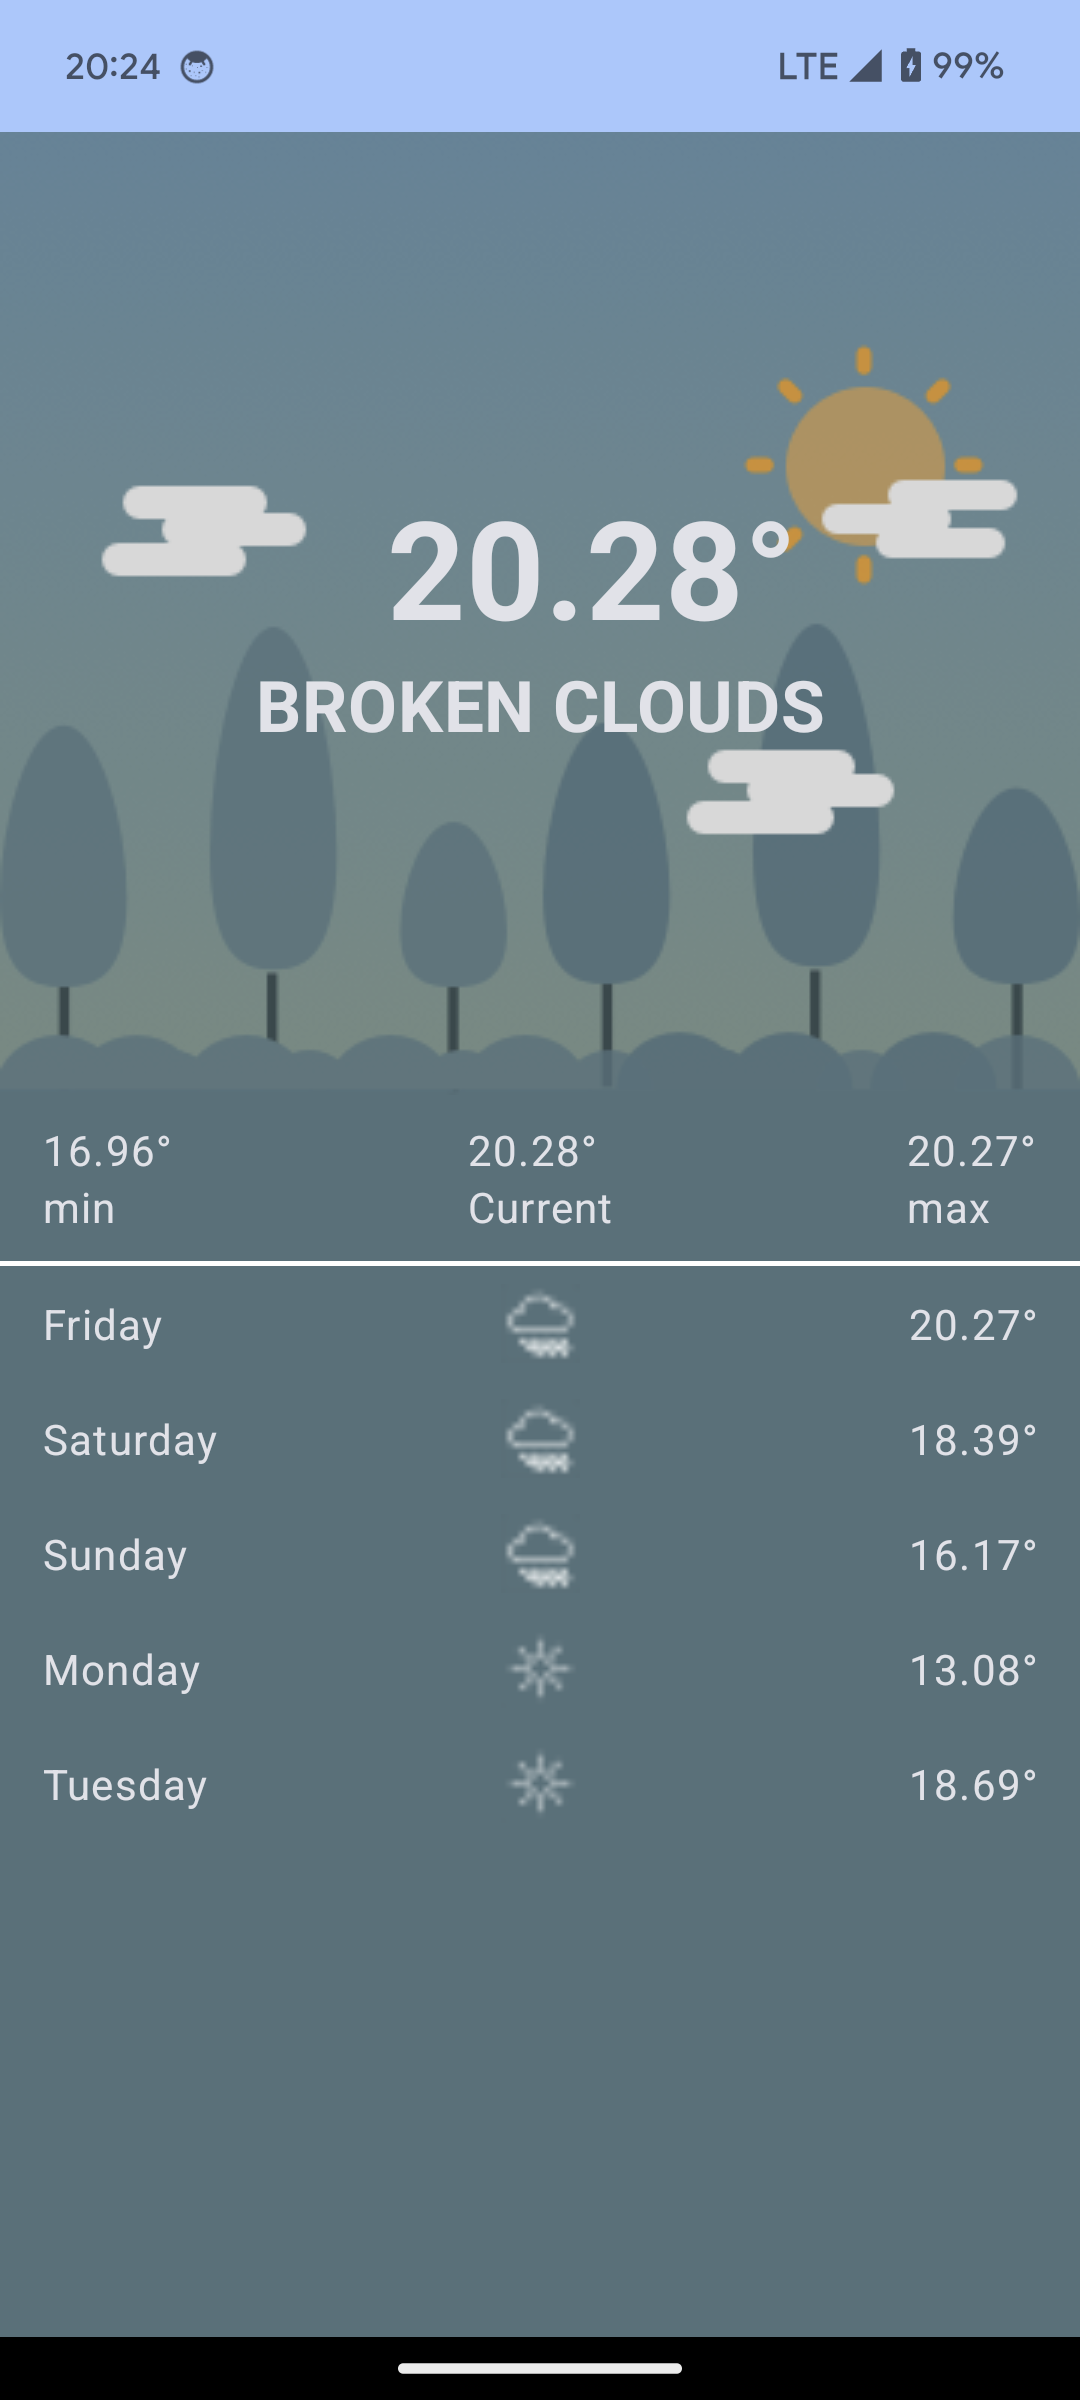
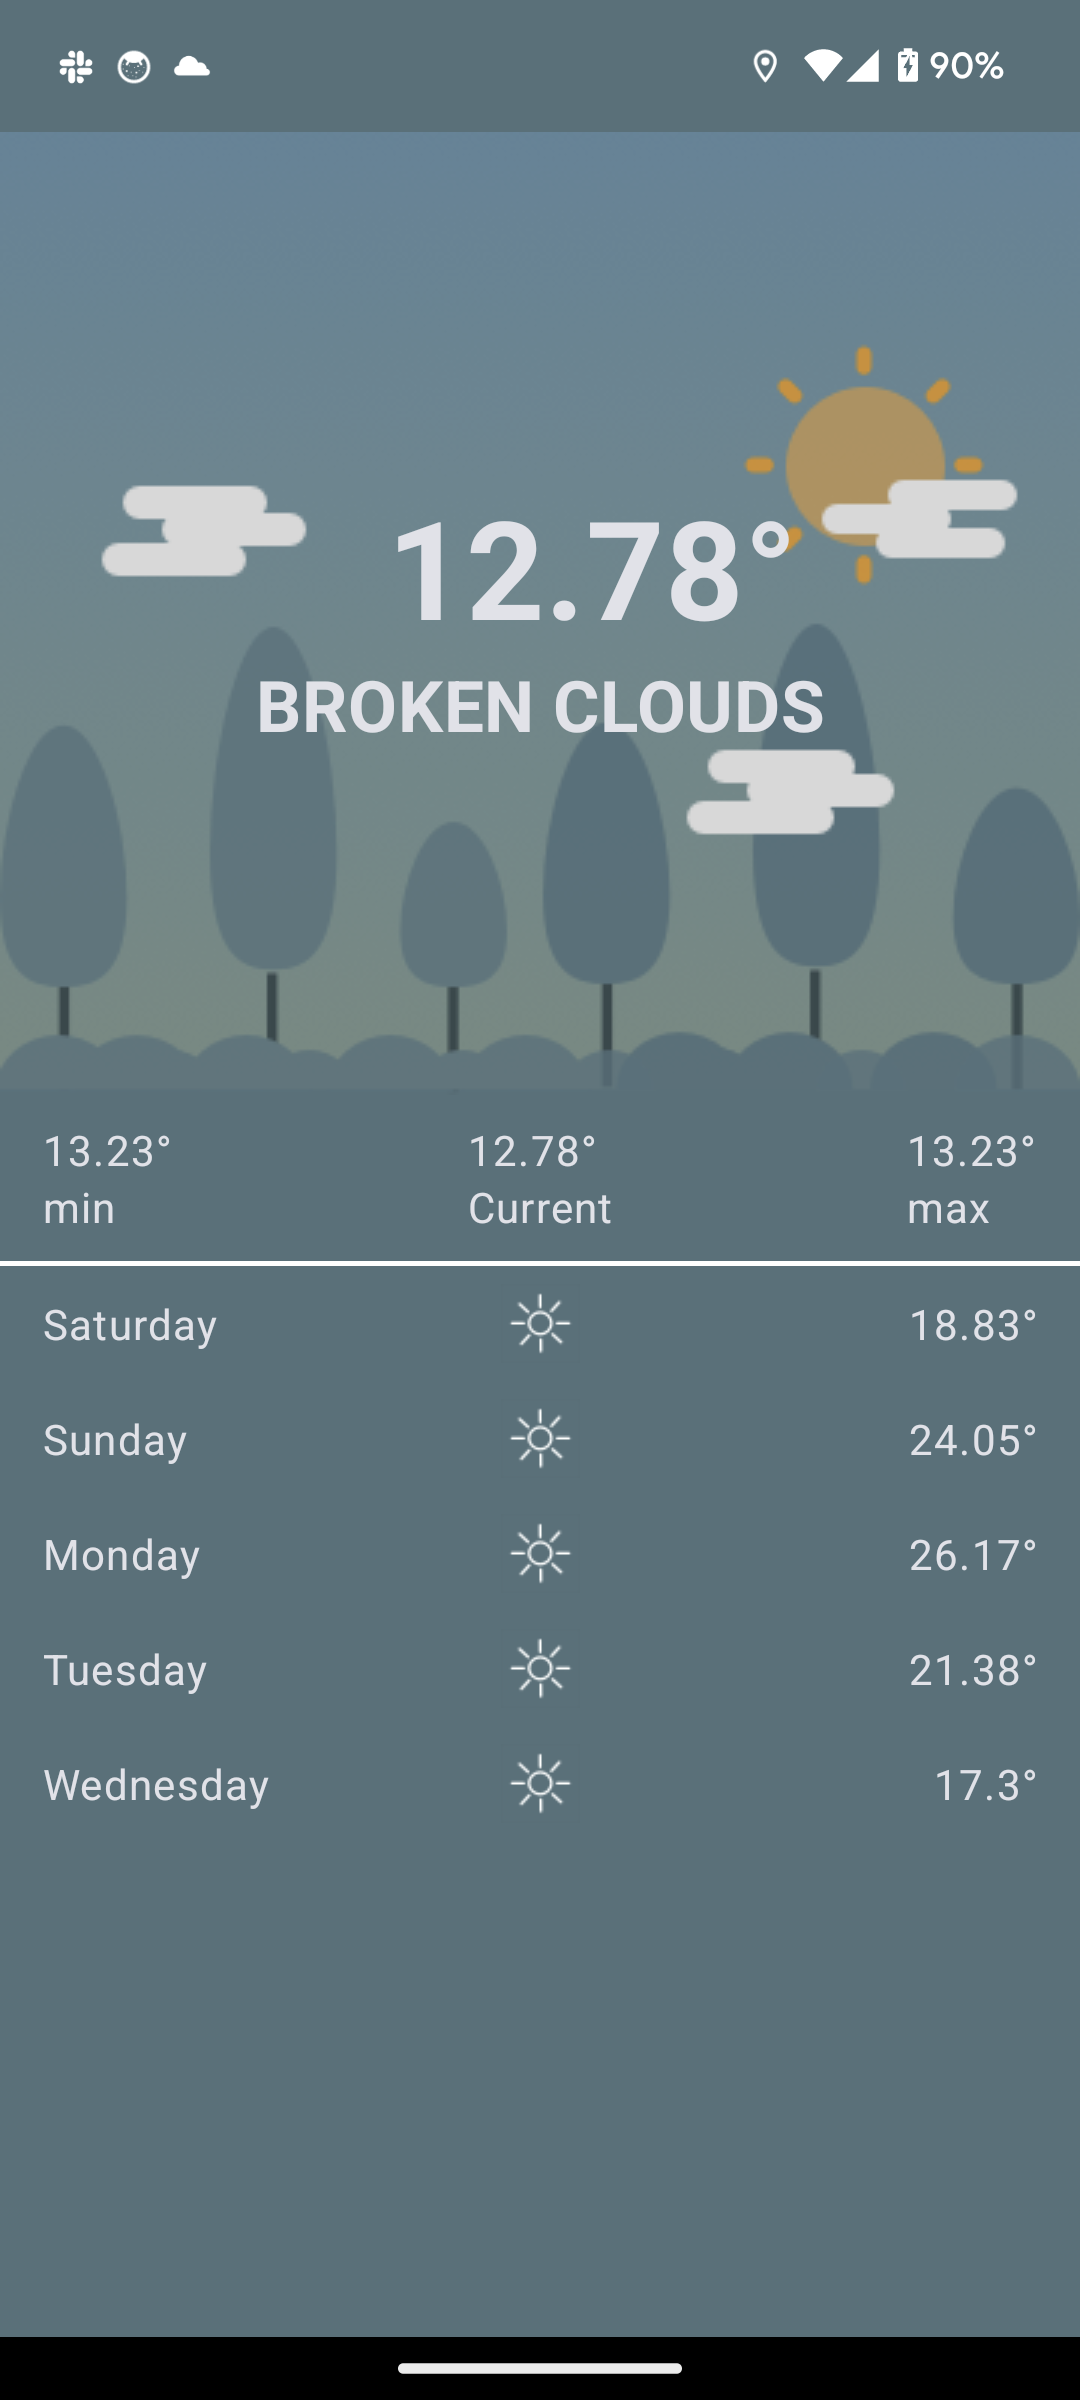
forecast: - Check if permissions are granted - Launch app setting to turn on location if permission not granted - Add lottie animation

diff --git a/forecast/src/main/java/com/edwardmuturi/forecast/presentation/ForecastScreen.kt b/forecast/src/main/java/com/edwardmuturi/forecast/presentation/ForecastScreen.kt
@@ -22,7 +22,11 @@
  */
 package com.edwardmuturi.forecast.presentation
 
+import android.Manifest
 import android.app.Activity
+import android.content.Intent
+import android.net.Uri
+import android.provider.Settings
 import androidx.compose.foundation.ExperimentalFoundationApi
 import androidx.compose.foundation.Image
 import androidx.compose.foundation.background
@@ -42,13 +46,18 @@ import androidx.compose.material.ExperimentalMaterialApi
 import androidx.compose.material.pullrefresh.PullRefreshIndicator
 import androidx.compose.material.pullrefresh.pullRefresh
 import androidx.compose.material.pullrefresh.rememberPullRefreshState
+import androidx.compose.material3.AlertDialog
 import androidx.compose.material3.Scaffold
 import androidx.compose.material3.Text
+import androidx.compose.material3.TextButton
 import androidx.compose.runtime.Composable
 import androidx.compose.runtime.LaunchedEffect
 import androidx.compose.runtime.SideEffect
 import androidx.compose.runtime.collectAsState
 import androidx.compose.runtime.getValue
+import androidx.compose.runtime.mutableStateOf
+import androidx.compose.runtime.remember
+import androidx.compose.runtime.setValue
 import androidx.compose.ui.Alignment
 import androidx.compose.ui.Modifier
 import androidx.compose.ui.graphics.Color
@@ -59,16 +68,27 @@ import androidx.compose.ui.platform.LocalView
 import androidx.compose.ui.platform.testTag
 import androidx.compose.ui.res.painterResource
 import androidx.compose.ui.res.stringResource
+import androidx.compose.ui.text.TextStyle
 import androidx.compose.ui.text.font.FontWeight
 import androidx.compose.ui.text.style.TextAlign
 import androidx.compose.ui.unit.dp
 import androidx.compose.ui.unit.sp
+import androidx.core.content.ContextCompat
 import androidx.core.view.WindowCompat
 import androidx.lifecycle.viewmodel.compose.viewModel
+import com.airbnb.lottie.LottieComposition
+import com.airbnb.lottie.compose.LottieAnimation
+import com.airbnb.lottie.compose.LottieCompositionSpec
+import com.airbnb.lottie.compose.LottieConstants
+import com.airbnb.lottie.compose.rememberLottieComposition
 import com.edwardmuturi.forecast.R
 import com.edwardmuturi.forecast.utils.DateUtils.getNextFiveDays
+import com.edwardmuturi.location.presentation.getlocationinfo.getLocationPermissions
+import com.google.accompanist.permissions.ExperimentalPermissionsApi
+import com.google.accompanist.permissions.MultiplePermissionsState
+import com.google.accompanist.permissions.rememberMultiplePermissionsState
 
-@OptIn(ExperimentalFoundationApi::class, ExperimentalMaterialApi::class)
+@OptIn(ExperimentalFoundationApi::class, ExperimentalMaterialApi::class, ExperimentalPermissionsApi::class)
 @Composable
 fun ForecastScreen(forecastViewModel: ForecastViewModel = viewModel()) {
     val forecastScreenUiState by forecastViewModel.forecastUiState.collectAsState()
@@ -77,6 +97,10 @@ fun ForecastScreen(forecastViewModel: ForecastViewModel = viewModel()) {
         refreshing = forecastScreenUiState.isLoading,
         onRefresh = { forecastViewModel.loadForecast(locationState.latitude, locationState.longitude) }
     )
+    val backgroundColor = BackgroundColor(forecastScreenUiState.currentDayForecastUiState.forecast?.type)
+    val locationPermissionsState = rememberMultiplePermissionsState(permissions = getLocationPermissions().toList())
+    val composition by rememberLottieComposition(LottieCompositionSpec.RawRes(R.raw.turn_on_location_lottie))
+    var showRationalDialog by remember { mutableStateOf(false) }
 
     LaunchedEffect(
         key1 = locationState.latitude,
@@ -85,8 +109,10 @@ fun ForecastScreen(forecastViewModel: ForecastViewModel = viewModel()) {
         }
     )
 
-    Scaffold(containerColor = BackgroundColor(forecastScreenUiState.currentDayForecastUiState.forecast?.type)) {
-        StatusBarColor(color = BackgroundColor(forecastScreenUiState.currentDayForecastUiState.forecast?.type))
+    PermissionDialog(locationPermissionsState, showRationalDialog) { showRationalDialog = it }
+
+    Scaffold(containerColor = backgroundColor) {
+        StatusBarColor(color = backgroundColor)
 
         Box(
             Modifier
@@ -94,13 +120,57 @@ fun ForecastScreen(forecastViewModel: ForecastViewModel = viewModel()) {
                 .padding(it)
                 .pullRefresh(pullRefreshState)
         ) {
-            ForestScreenContent(forecastScreenUiState)
+            if (locationPermissionsState.allPermissionsGranted) {
+                ForestScreenContent(forecastScreenUiState)
 
-            PullRefreshIndicator(
-                refreshing = forecastScreenUiState.isLoading,
-                state = pullRefreshState,
-                modifier = Modifier.align(Alignment.TopCenter)
+                PullRefreshIndicator(
+                    refreshing = forecastScreenUiState.isLoading,
+                    state = pullRefreshState,
+                    modifier = Modifier.align(Alignment.TopCenter)
+                )
+            } else {
+                PermissionRationale(composition, locationPermissionsState) { showDialog -> showRationalDialog = showDialog }
+            }
+        }
+    }
+}
+
+@OptIn(ExperimentalPermissionsApi::class)
+@Composable
+private fun PermissionRationale(
+    composition: LottieComposition?,
+    locationPermissionsState: MultiplePermissionsState,
+    onShowRationalDialogUpdated: (Boolean) -> Unit
+) {
+    Box(modifier = Modifier.fillMaxSize()) {
+        Column(
+            Modifier.fillMaxSize().align(Alignment.Center),
+            verticalArrangement = Arrangement.Center,
+            horizontalAlignment = Alignment.CenterHorizontally
+        ) {
+            LottieAnimation(
+                composition = composition,
+                iterations = LottieConstants.IterateForever
             )
+            Text(
+                text = "Location permissions not granted, please allow location permissions to view daily forecast",
+                Modifier
+                    .fillMaxWidth()
+                    .padding(vertical = 20.dp),
+                textAlign = TextAlign.Center
+            )
+            TextButton(
+                onClick = {
+                    onShowRationalDialogUpdated(true)
+                    if (locationPermissionsState.shouldShowRationale) {
+                        onShowRationalDialogUpdated(true)
+                    } else {
+                        locationPermissionsState.launchMultiplePermissionRequest()
+                    }
+                }
+            ) {
+                Text(text = "Allow location permission")
+            }
         }
     }
 }
@@ -261,5 +331,66 @@ fun StatusBarColor(color: Color) {
             WindowCompat.getInsetsController(window, view).isAppearanceLightStatusBars = !darkTheme
             WindowCompat.getInsetsController(window, view).isAppearanceLightNavigationBars = !darkTheme
         }
+    }
+}
+
+@OptIn(ExperimentalPermissionsApi::class)
+@Composable
+fun PermissionDialog(
+    locationPermissionsState: MultiplePermissionsState,
+    showRationalDialog: Boolean,
+    onShowRationalDialogUpdated: (Boolean) -> Unit
+) {
+    val context = LocalContext.current
+
+    if (showRationalDialog) {
+        AlertDialog(
+            onDismissRequest = {
+                onShowRationalDialogUpdated(false)
+            },
+            title = {
+                Text(
+                    text = "Permission",
+                    fontWeight = FontWeight.Bold,
+                    fontSize = 16.sp
+                )
+            },
+            text = {
+                Text(
+                    if (locationPermissionsState.revokedPermissions.size == 2) {
+                        "We need location permission to get current location forecast"
+                    } else if (locationPermissionsState.revokedPermissions.first().permission == Manifest.permission.ACCESS_COARSE_LOCATION) {
+                        "We need coarse location permission. Please grant the permission."
+                    } else {
+                        "We need fine location permission. Please grant the permission."
+                    },
+                    fontSize = 16.sp
+                )
+            },
+            confirmButton = {
+                TextButton(
+                    onClick = {
+                        onShowRationalDialogUpdated(false)
+                        val intent = Intent(
+                            Settings.ACTION_APPLICATION_DETAILS_SETTINGS,
+                            Uri.fromParts("package", context.packageName, null)
+                        )
+                        intent.addFlags(Intent.FLAG_ACTIVITY_NEW_TASK)
+                        ContextCompat.startActivity(context, intent, null)
+                    }
+                ) {
+                    Text("OK", style = TextStyle(color = Color.Black))
+                }
+            },
+            dismissButton = {
+                TextButton(
+                    onClick = {
+                        onShowRationalDialogUpdated(false)
+                    }
+                ) {
+                    Text("Cancel", style = TextStyle(color = Color.Black))
+                }
+            }
+        )
     }
 }

diff --git a/location/src/main/java/com/edwardmuturi/location/presentation/getlocationinfo/LocationPermissionLauncher.kt b/location/src/main/java/com/edwardmuturi/location/presentation/getlocationinfo/LocationPermissionLauncher.kt
@@ -43,13 +43,14 @@ import androidx.lifecycle.Lifecycle
 import androidx.lifecycle.LifecycleEventObserver
 import androidx.lifecycle.LifecycleOwner
 import androidx.lifecycle.viewmodel.compose.viewModel
+import com.google.accompanist.permissions.ExperimentalPermissionsApi
 import com.google.android.gms.location.FusedLocationProviderClient
 import com.google.android.gms.location.LocationCallback
 import com.google.android.gms.location.LocationRequest
 import com.google.android.gms.location.LocationResult
 import com.google.android.gms.location.LocationServices
-import timber.log.Timber
 
+@OptIn(ExperimentalPermissionsApi::class)
 @Composable
 fun LocationPermissionLauncher(lifecycleOwner: LifecycleOwner = LocalLifecycleOwner.current, locationViewModel: LocationViewModel = viewModel()) {
     val context = LocalContext.current
@@ -79,49 +80,28 @@ fun LocationPermissionLauncher(lifecycleOwner: LifecycleOwner = LocalLifecycleOw
             Toast.makeText(context, "Permission Denied", Toast.LENGTH_SHORT).show()
         }
     }
-    val permissions = arrayOf(
-        Manifest.permission.ACCESS_COARSE_LOCATION,
-        Manifest.permission.ACCESS_FINE_LOCATION
-    )
+    val locationPermissions = getLocationPermissions()
 
-    if (permissions.all {
+    if (locationPermissions.all {
             ContextCompat.checkSelfPermission(context, it) == PackageManager.PERMISSION_GRANTED
         }
     ) {
         startLocationUpdates(locationRequired = locationRequired, locationCallback = locationCallback, fusedLocationClient = fusedLocationClient)
     } else {
         LaunchedEffect(key1 = true, block = {
-            launcherMultiplePermissions.launch(permissions)
+            launcherMultiplePermissions.launch(locationPermissions)
         })
     }
 
     DisposableEffect(lifecycleOwner) {
         val observer = LifecycleEventObserver { source, event ->
             when (event) {
-                Lifecycle.Event.ON_CREATE -> {
-                    Timber.d("onCreate")
-                }
-
-                Lifecycle.Event.ON_START -> {
-                    Timber.d("On Start")
-                }
-
                 Lifecycle.Event.ON_RESUME -> {
-                    Timber.d("On Resume")
                     startLocationUpdates(locationRequired, locationCallback, fusedLocationClient)
                 }
 
                 Lifecycle.Event.ON_PAUSE -> {
-                    Timber.d("On Pause")
                     removeLocationUpdates(locationCallback = locationCallback, fusedLocationClient = fusedLocationClient)
-                }
-
-                Lifecycle.Event.ON_STOP -> {
-                    Timber.d("On Stop")
-                }
-
-                Lifecycle.Event.ON_DESTROY -> {
-                    Timber.d("On Destroy")
                 }
 
                 else -> {}
@@ -135,6 +115,11 @@ fun LocationPermissionLauncher(lifecycleOwner: LifecycleOwner = LocalLifecycleOw
         }
     }
 }
+
+fun getLocationPermissions() = arrayOf(
+    Manifest.permission.ACCESS_COARSE_LOCATION,
+    Manifest.permission.ACCESS_FINE_LOCATION
+)
 
 @SuppressLint("MissingPermission")
 private fun startLocationUpdates(locationRequired: Boolean, locationCallback: LocationCallback?, fusedLocationClient: FusedLocationProviderClient?) {

diff --git a/README.md b/README.md
@@ -62,6 +62,7 @@ arrangement and as you move deeper into the package the framework details are gr
   the full power of SQLite
 * Reactive programming (with [Kotlin Coroutines andKotlin Flows](https://kotlinlang.org/docs/reference/coroutines/flow.html))
 * Google [Material 3](https://m3.material.io/) library
+* [Lottie](https://airbnb.io/lottie/#/README) a library for Android, iOS, Web, and Windows that parses Adobe After Effects animations exported as JSON with Bodymovin and renders them natively on mobile and on the web!
 
 ## CI/CD
 
@@ -69,9 +70,9 @@ Github actions
 
 ## Sample Screens
 
- ![Grid Image](docs/cloudy.png) | ![Sort Menu Image](docs/cloudy.png) | ![Details Screen Image](docs/cloudy.png) 
---------------------------------|-------------------------------------|------------------------------------------
- **Cloudy**                     | **Sunny**                           | **Rainy**                                
+ ![Grid Image](docs/cloudy.png) | ![Sort Menu Image](docs/sunny.png) | ![Details Screen Image](docs/rainy.png) 
+--------------------------------|------------------------------------|------------------------------------------
+ **Cloudy**                     | **Sunny**                          | **Rainy**                                
 
 ## App Access
 
